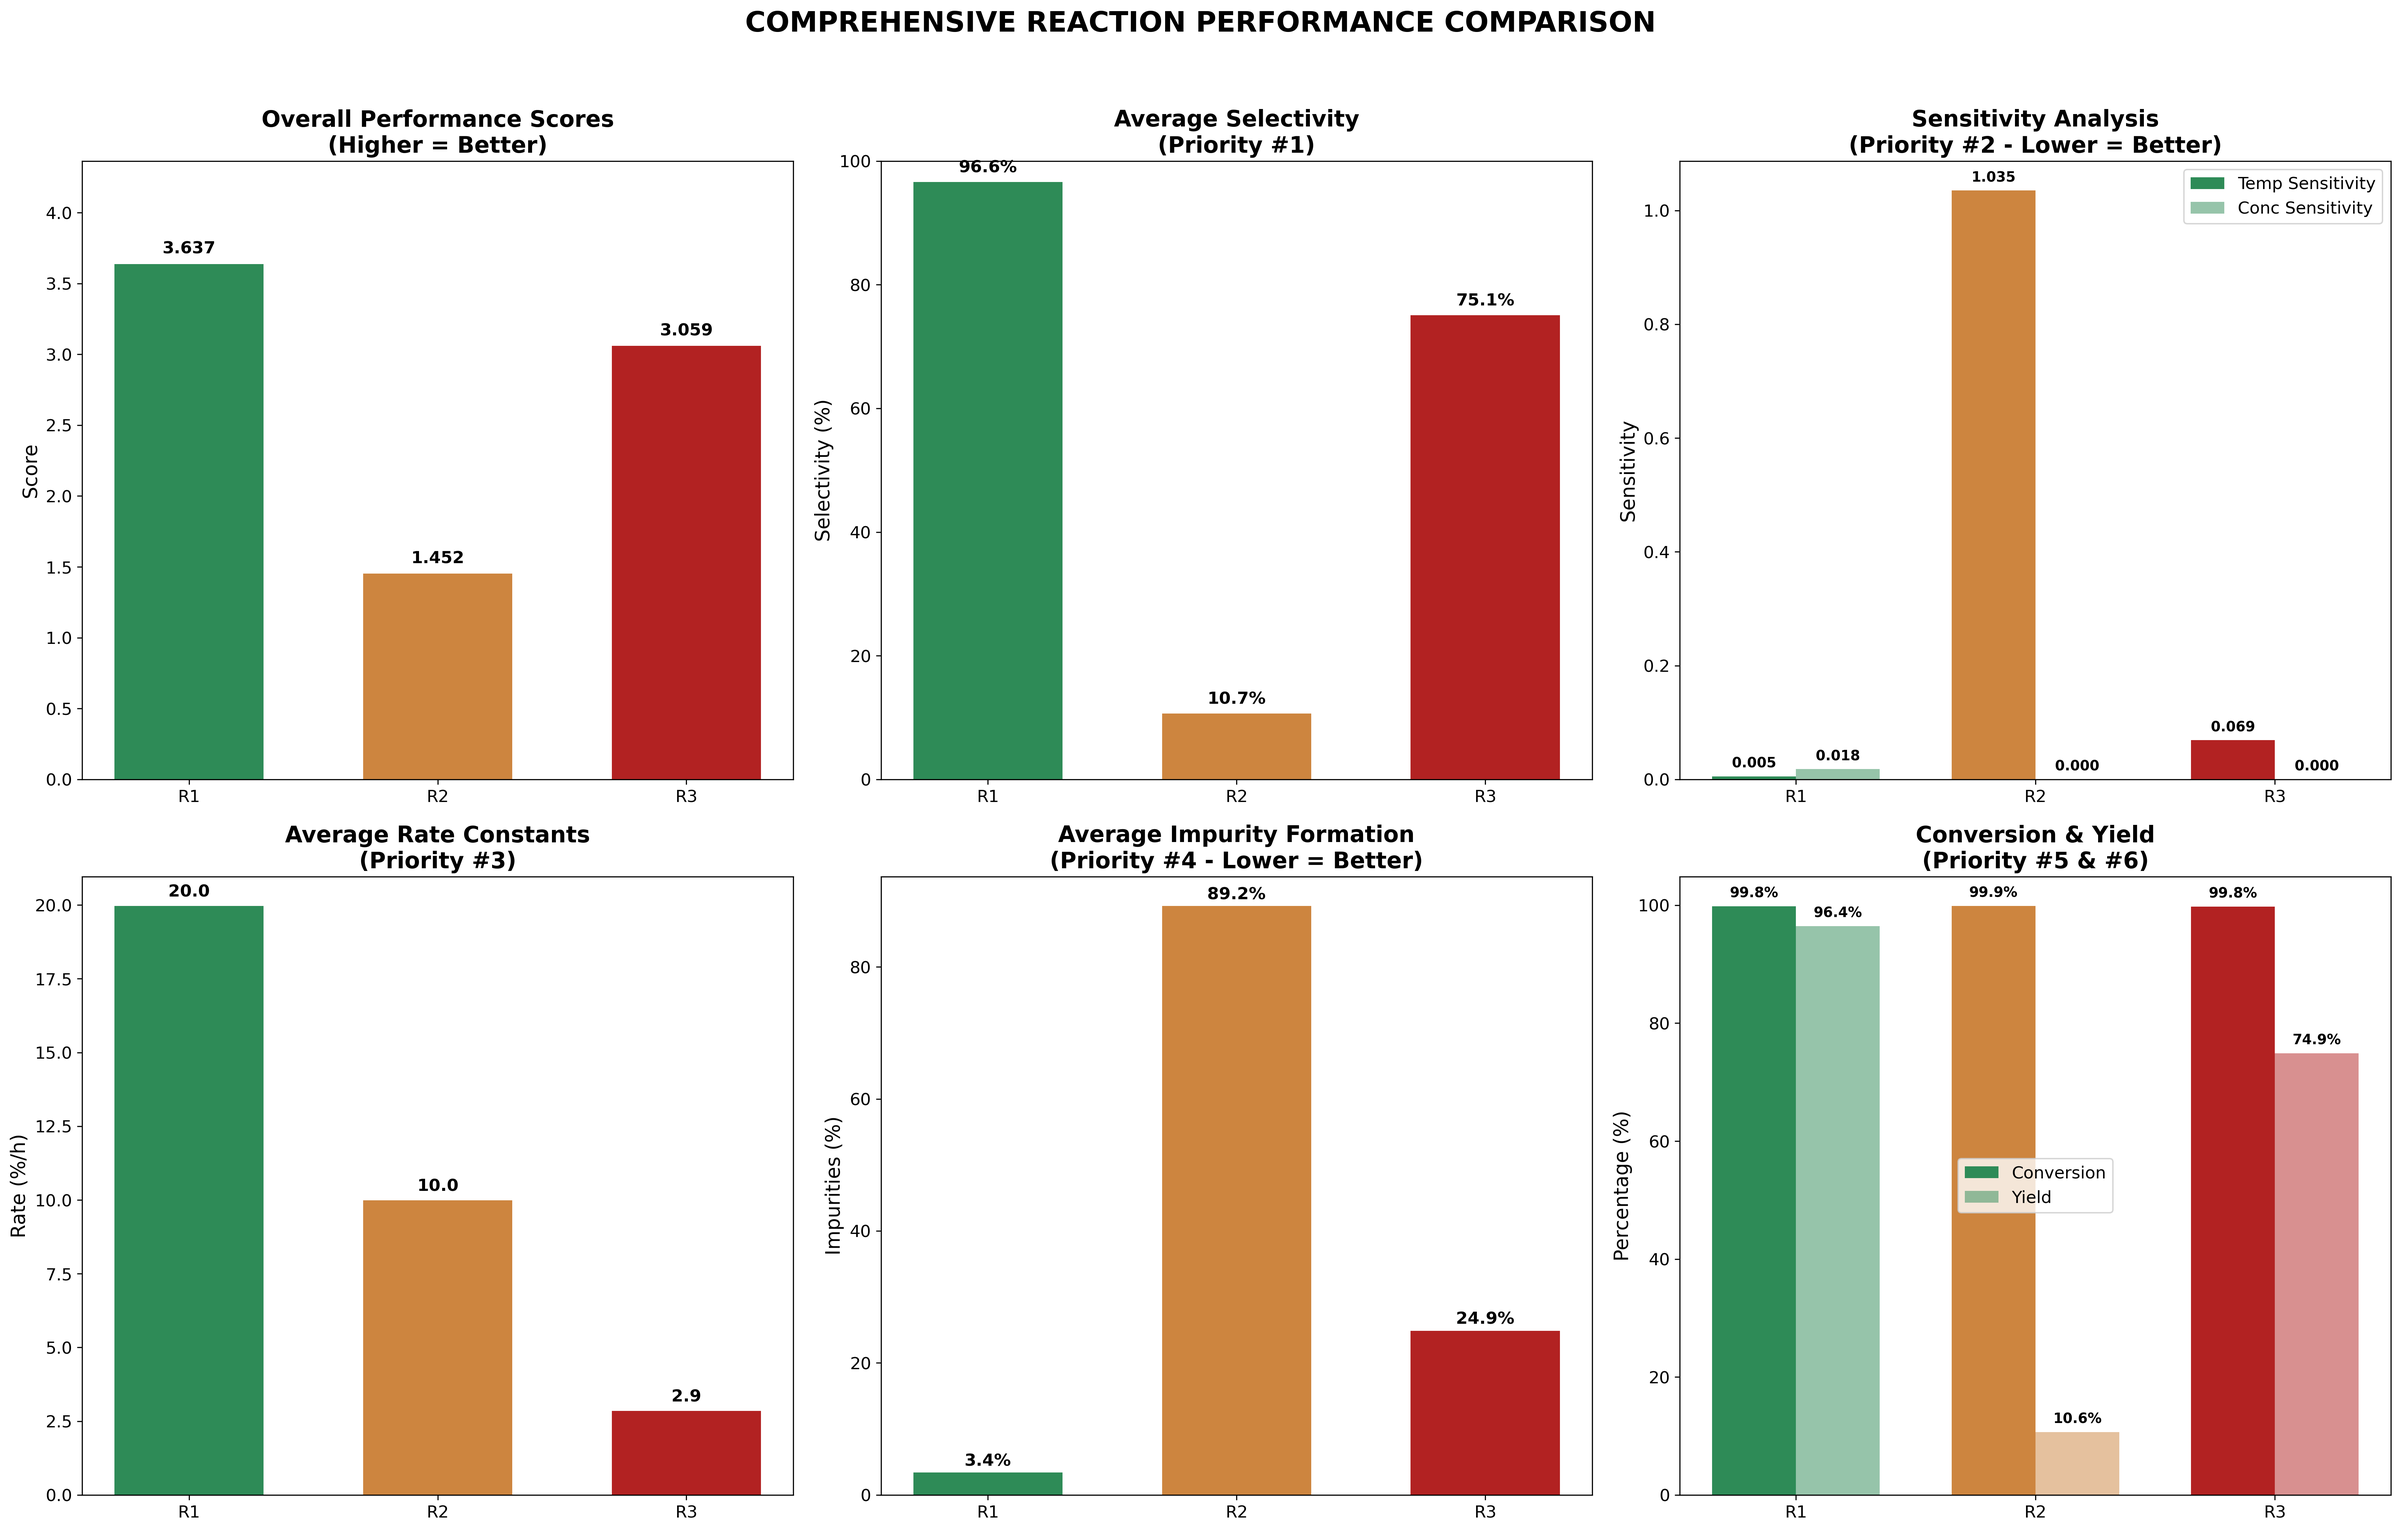
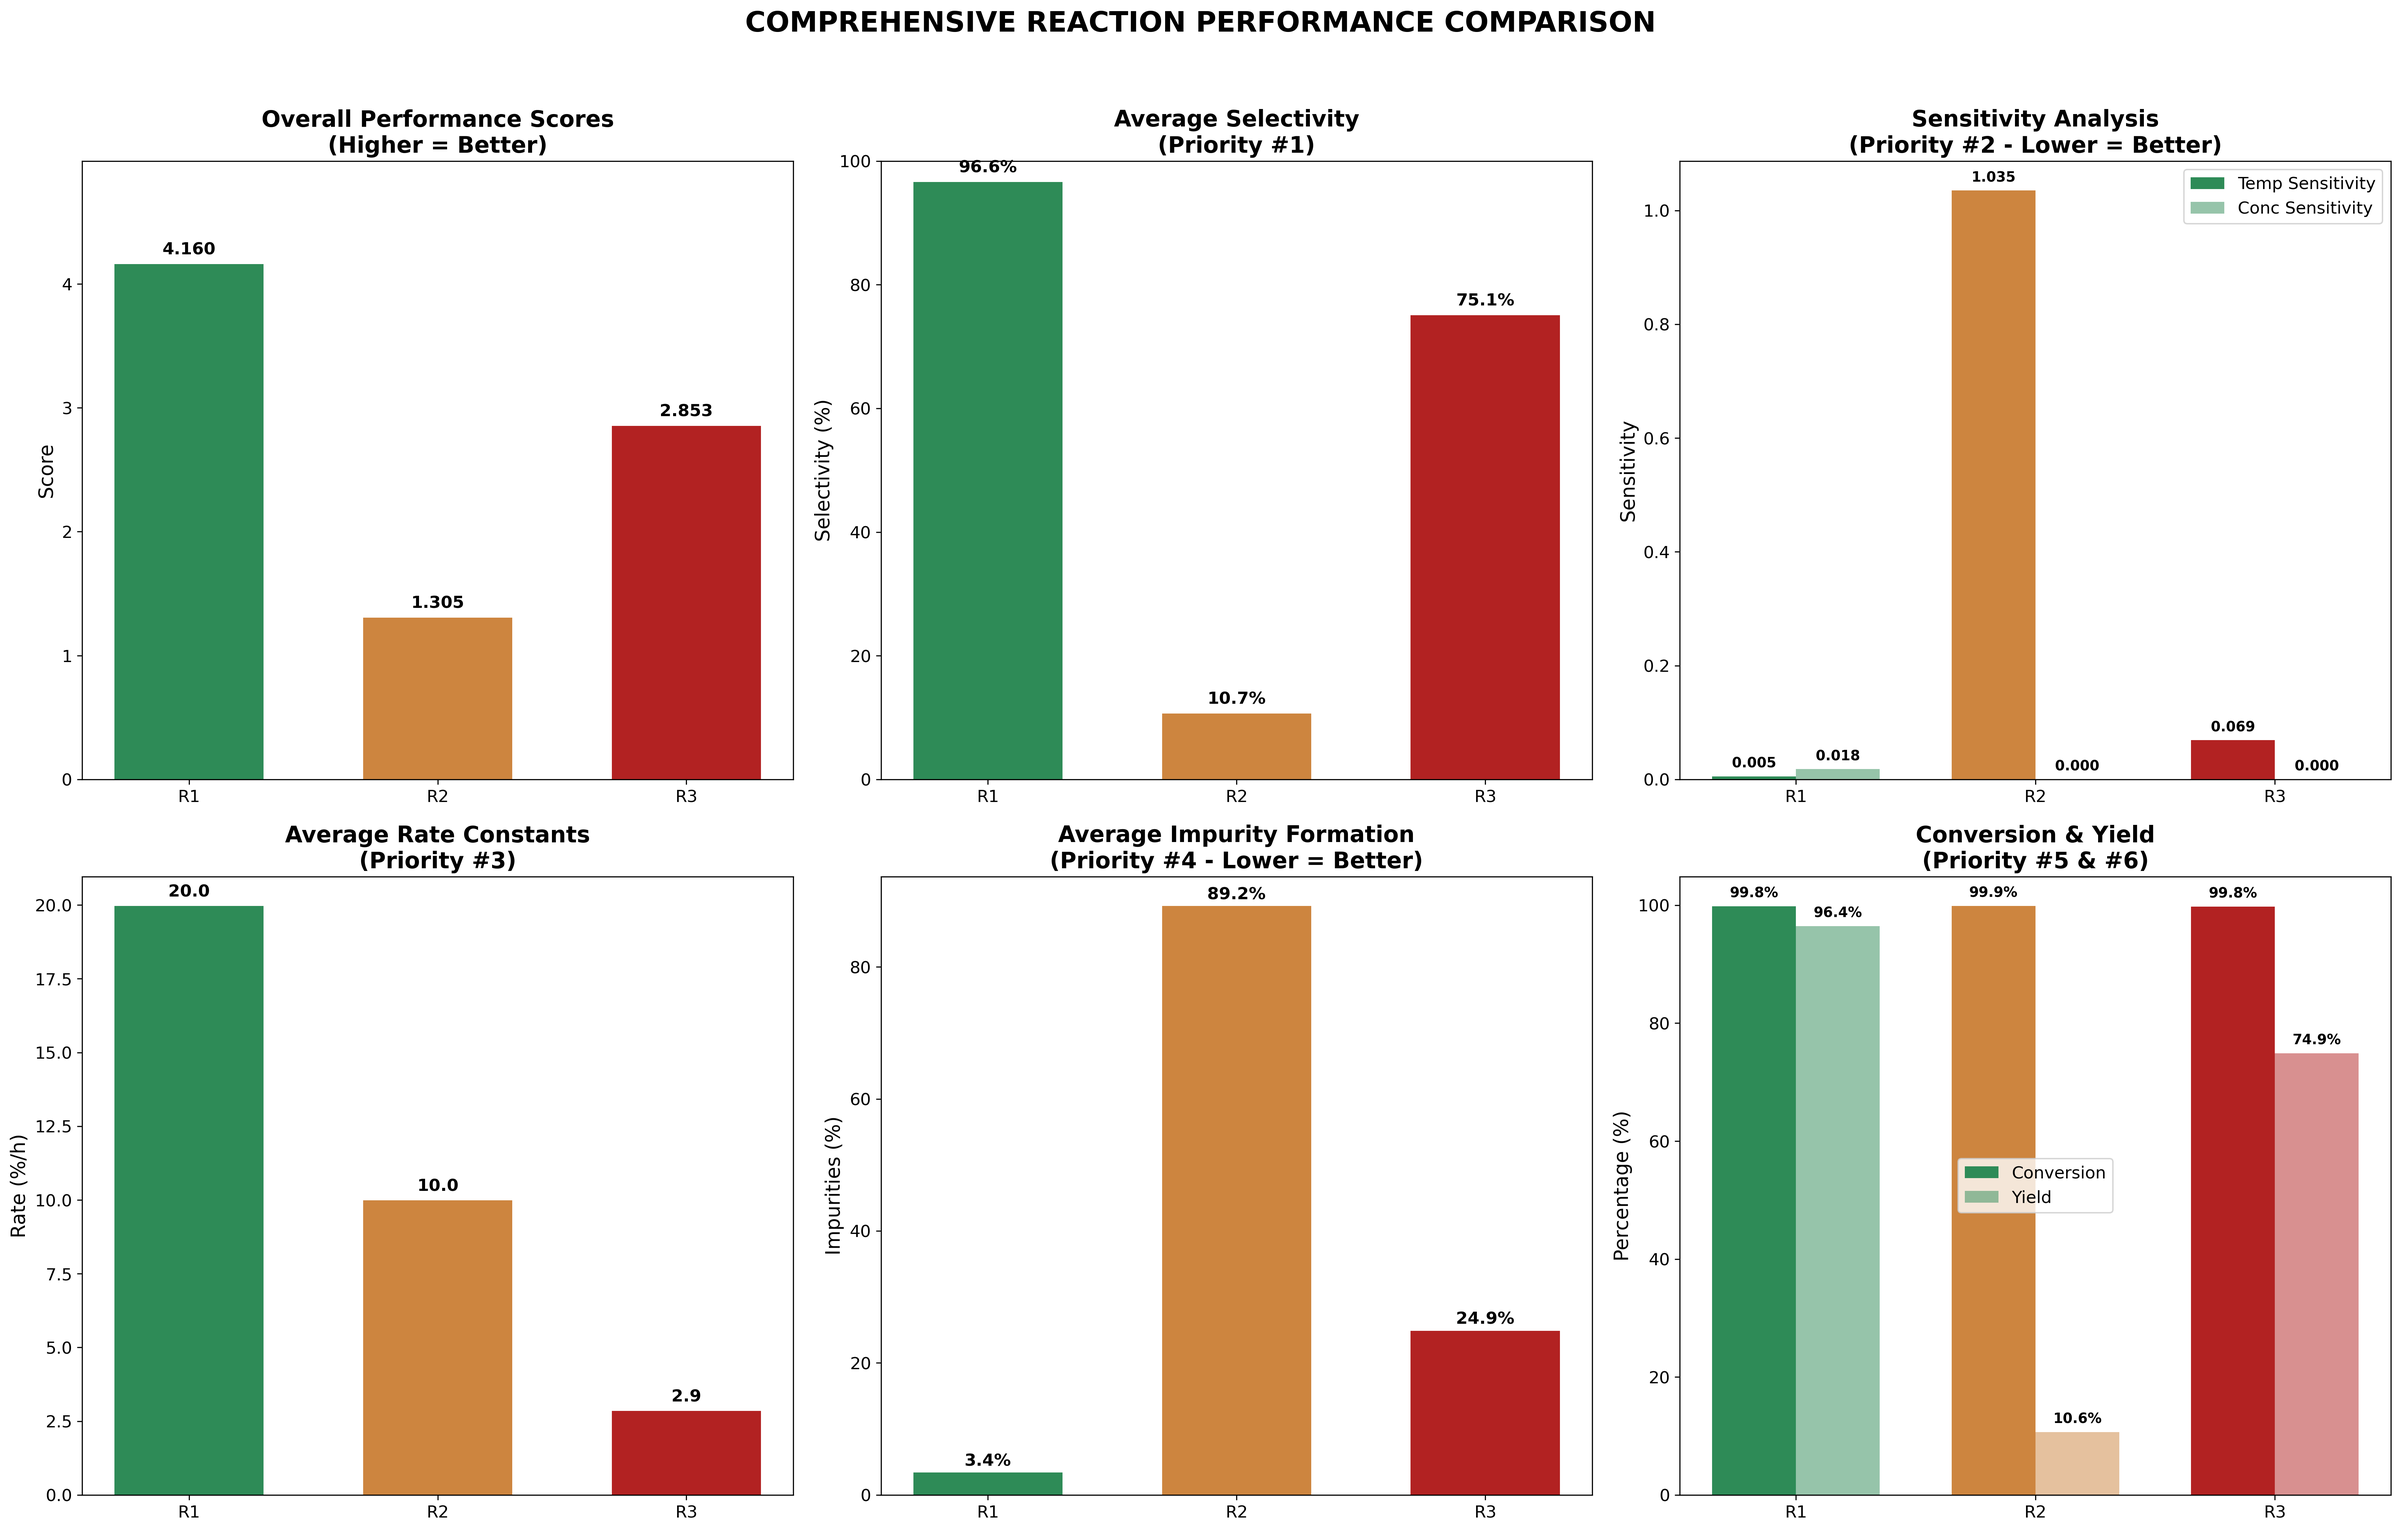
CHANGE THE PRIORITY ORDER ACCORDING TO QUES

Changed region(s): [[0.2489, 0.2184, 0.3423, 0.2808], [0.1245, 0.3744, 0.2178, 0.4056]]

diff --git a/final_recommendation_report.py b/final_recommendation_report.py
@@ -1,33 +1,53 @@
 print("🏆 FINAL COMPREHENSIVE ANALYSIS REPORT")
 print("="*70)
 
-print("\n📋 YOUR PRIORITY HIERARCHY:")
-print("1. Selectivity (Weight: 1.0) - MOST IMPORTANT")
-print("2. Temperature Sensitivity (Weight: 0.85)")
-print("3. Concentration Sensitivity (Weight: 0.85)")
-print("4. Rate Constant (Weight: 0.7)")
-print("5. Impurity Formation (Weight: 0.55)")
-print("6. Conversion (Weight: 0.4)")
-print("7. Yield (Weight: 0.25)")
-print("8. Others (Weight: 0.1)")
+print("\n📋 YOUR UPDATED PRIORITY HIERARCHY:")
+print("1. Impurity Formation (Weight: 1.0) - MOST IMPORTANT (minimization)")
+print("2. Product Yield (Weight: 0.9) - Maximize yield = more product, less waste")
+print("3. Conversion (Weight: 0.85) - Maximize substrate utilization")
+print("4. Selectivity (Weight: 0.7) - Still important for quality and downstream costs")
+print("5. Rate Constant (Weight: 0.55) - Throughput, but secondary to purity/yield")
+print("6. Temperature Sensitivity (Weight: 0.4) - Stability")
+print("7. Concentration Sensitivity (Weight: 0.4) - Robustness")
+print("8. Others (Weight: 0.2)")
 
 print("\n🎯 ANALYSIS METHODOLOGY:")
 print("• Analyzed 15 temperature-concentration conditions")
-print("• Applied weighted scoring based on your priorities")
+print("• Applied weighted scoring based on your NEW priorities")
 print("• Ranked reactions for each condition")
 print("• Calculated overall performance across all conditions")
 
 print("\n📊 DETAILED RESULTS BY PRIORITY:")
 
-print("\n1⃣ SELECTIVITY (Priority #1 - Weight: 1.0)")
-print("   R1: 96.6% ✅ EXCELLENT")
-print("   R2: 10.7% ❌ VERY POOR")  
-print("   R3: 75.1% ⚠  MODERATE")
-print("   → R1 WINS: Superior selectivity means less waste")
+print("\n1⃣ IMPURITY FORMATION (Priority #1 - Weight: 1.0 - MINIMIZE)")
+print("   R1: 3.4% ✅ EXCELLENT (lowest impurities)")
+print("   R3: 24.9% ⚠  MODERATE")  
+print("   R2: 89.2% ❌ VERY POOR (highest impurities)")
+print("   → R1 WINS: Minimal impurity formation reduces purification costs")
 
-print("\n2⃣ TEMPERATURE SENSITIVITY (Priority #2 - Weight: 0.85)")
-print("   R1: 0.005 ✅ VERY LOW (most stable)")
-print("   R2: 1.035 ❌ VERY HIGH (unstable)")
+print("\n2⃣ PRODUCT YIELD (Priority #2 - Weight: 0.9)")
+print("   R1: 96.4% ✅ EXCELLENT")
+print("   R3: 74.9% ⚠  MODERATE")
+print("   R2: 10.6% ❌ VERY POOR")
+print("   → R1 WINS: Maximum product yield = less waste, more efficiency")
+
+print("\n3⃣ CONVERSION (Priority #3 - Weight: 0.85)")
+print("   R1: 99.8% ✅ EXCELLENT")
+print("   R3: 99.8% ✅ EXCELLENT")
+print("   R2: 99.9% ✅ EXCELLENT")
+print("   → TIE: All reactions achieve near-complete conversion")
+
+print("\n4⃣ SELECTIVITY (Priority #4 - Weight: 0.7)")
+print("   R1: 96.6% ✅ EXCELLENT")
+print("   R3: 75.1% ⚠  MODERATE")
+print("   R2: 10.7% ❌ VERY POOR")
+print("   → R1 WINS: Superior selectivity for quality control")
+
+print("\n5⃣ RATE CONSTANT (Priority #5 - Weight: 0.55)")
+print("   R1: 20.0%/h ✅ FASTEST")
+print("   R2: 10.0%/h ⚠  MODERATE")
+print("   R3: 2.9%/h ❌ SLOWEST")
+print("   → R1 WINS: Fastest reaction = highest throughput")
 print("   R3: 0.069 ⚠  MODERATE")
 print("   → R1 WINS: Most robust to temperature changes")
 

diff --git a/comprehensive_ranking.py b/comprehensive_ranking.py
@@ -9,16 +9,16 @@ print("="*70)
 
 class ReactionRanker:
     def __init__(self):
-        # Priority weights based on your requirements
+        # Priority weights based on your NEW requirements
         self.priority_weights = {
-            'selectivity': 1.0,           # Priority 1 - Most important
-            'temp_sensitivity': 0.85,     # Priority 2
-            'conc_sensitivity': 0.85,     # Priority 2  
-            'rate_constant': 0.7,         # Priority 3
-            'impurity_formation': 0.55,   # Priority 4 (lower is better)
-            'conversion': 0.4,            # Priority 5
-            'yield': 0.25,               # Priority 6
-            'others': 0.1                # Priority 7
+            'impurity_formation': 1.0,    # Priority 1 - Most important (minimization)
+            'yield': 0.9,                # Priority 2 - Maximize yield = more product, less waste
+            'conversion': 0.85,          # Priority 3 - Maximize substrate utilization
+            'selectivity': 0.7,          # Priority 4 - Still important for quality and downstream costs
+            'rate_constant': 0.55,       # Priority 5 - Throughput, but secondary to purity/yield
+            'temp_sensitivity': 0.4,     # Priority 6 - Stability
+            'conc_sensitivity': 0.4,     # Priority 6 - Robustness
+            'others': 0.2                # Priority 7
         }
         
         self.data = {}
@@ -194,13 +194,13 @@ class ReactionRanker:
         scores = []
         for i, rxn in enumerate(reactions):
             score = (
-                norm_selectivity[i] * self.priority_weights['selectivity'] +
-                norm_temp_sens[i] * self.priority_weights['temp_sensitivity'] +
-                norm_conc_sens[i] * self.priority_weights['conc_sensitivity'] +
-                norm_rates[i] * self.priority_weights['rate_constant'] +
                 norm_impurities[i] * self.priority_weights['impurity_formation'] +
+                norm_yields[i] * self.priority_weights['yield'] +
                 norm_conversions[i] * self.priority_weights['conversion'] +
-                norm_yields[i] * self.priority_weights['yield']
+                norm_selectivity[i] * self.priority_weights['selectivity'] +
+                norm_rates[i] * self.priority_weights['rate_constant'] +
+                norm_temp_sens[i] * self.priority_weights['temp_sensitivity'] +
+                norm_conc_sens[i] * self.priority_weights['conc_sensitivity']
             )
             scores.append((rxn, score, condition_results[rxn]))
             
